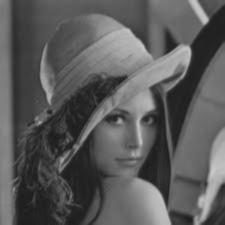
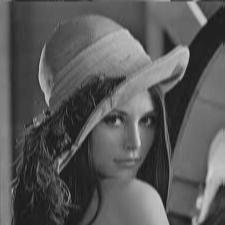
make buffering

diff --git a/src/main/java/AveragingFilter.java b/src/main/java/AveragingFilter.java
@@ -9,6 +9,7 @@ class AveragingFilter {
     private int frameSide;
     private int halfFrame;
     private int squareFrame;
+    private int[] averageBuffer;
 
     AveragingFilter(String in, String number) {
         try {
@@ -21,6 +22,7 @@ class AveragingFilter {
 
             halfFrame = frameSide / 2;
             squareFrame = frameSide * frameSide;
+            averageBuffer = new int[frameSide];
             img = ImageIO.read(new File(in));
         } catch (NumberFormatException e) {
             System.out.println("Error parsing string: " + number);
@@ -52,37 +54,68 @@ class AveragingFilter {
     }
 
     private int getAverageRgb(int x, int y) {
+
+        if (x == 0) {
+            for (int i = 0; i < frameSide; i++) {
+                averageBuffer[i] = getAverageRgbAtCol(i, x, y);
+            }
+        } else {
+            moveBuffer();
+            averageBuffer[frameSide - 1] = getAverageRgbAtCol(frameSide, x, y);
+        }
+
+        return getAverageByCols();
+    }
+
+    private void moveBuffer() {
+        System.arraycopy(averageBuffer, 1, averageBuffer, 0, frameSide - 1);
+        averageBuffer[frameSide - 1] = 0;
+    }
+
+    private int getAverageByCols() {
+        int sumR = 0;
+        int sumG = 0;
+        int sumB = 0;
+        for (int anAverageBuffer : averageBuffer) {
+            sumR += (anAverageBuffer >> 16) & 0xFF;
+            sumG += (anAverageBuffer >> 8) & 0xFF;
+            sumB += (anAverageBuffer) & 0xFF;
+        }
+
+        return getRgbModel(sumR, sumG, sumB);
+    }
+
+    private int getAverageRgbAtCol(int col, int x, int y) {
         int sumR = 0;
         int sumG = 0;
         int sumB = 0;
 
-        for (int i = 0; i < frameSide; i++) {
-            for (int j = 0; j < frameSide; j++) {
-                int rgb = img.getRGB(getPos(x, i, img.getWidth()), getPos(y, j, img.getHeight()));
-                sumR += (rgb >> 16) & 0xFF;
-                sumG += (rgb >> 8) & 0xFF;
-                sumB += (rgb) & 0xFF;
-            }
+        for (int j = 0; j < frameSide; j++) {
+            int rgb = img.getRGB(getPos(x, col, img.getWidth()), getPos(y, j, img.getHeight()));
+            sumR += (rgb >> 16) & 0xFF;
+            sumG += (rgb >> 8) & 0xFF;
+            sumB += (rgb) & 0xFF;
         }
 
+        return getRgbModel(sumR / squareFrame, sumG / squareFrame, sumB / squareFrame);
+    }
+
+    private int getRgbModel(int r, int g, int b) {
         return ((1 & 0xFF) << 24) |
-                ((sumR / squareFrame & 0xFF) << 16) |
-                ((sumG / squareFrame & 0xFF) << 8) |
-                ((sumB / squareFrame & 0xFF));
+                ((r & 0xFF) << 16) |
+                ((g & 0xFF) << 8) |
+                ((b & 0xFF));
     }
 
     private int getPos(int origin, int current, int maxSize) {
         int diff = halfFrame - current;
         int target = origin - diff;
-        int pos;
 
         if (target < 0 || target >= maxSize) {
-            pos = origin + diff;
+            return origin + diff;
         } else {
-            pos = target;
+            return target;
         }
-
-        return pos;
     }
 
     void writeImg(String output) {
